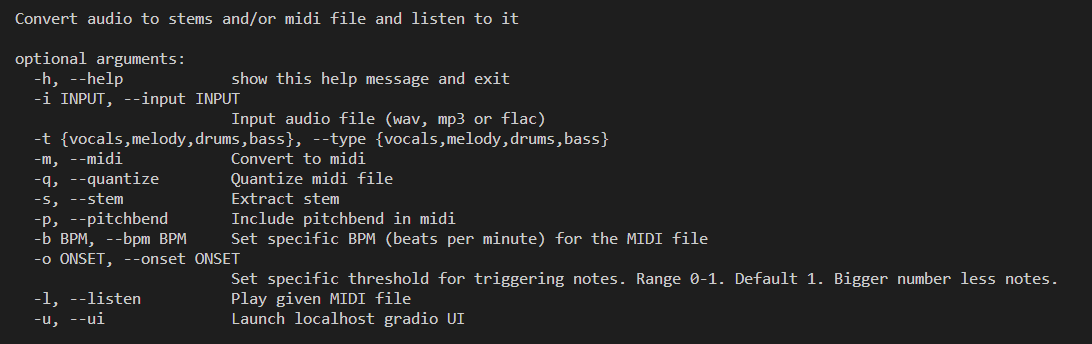
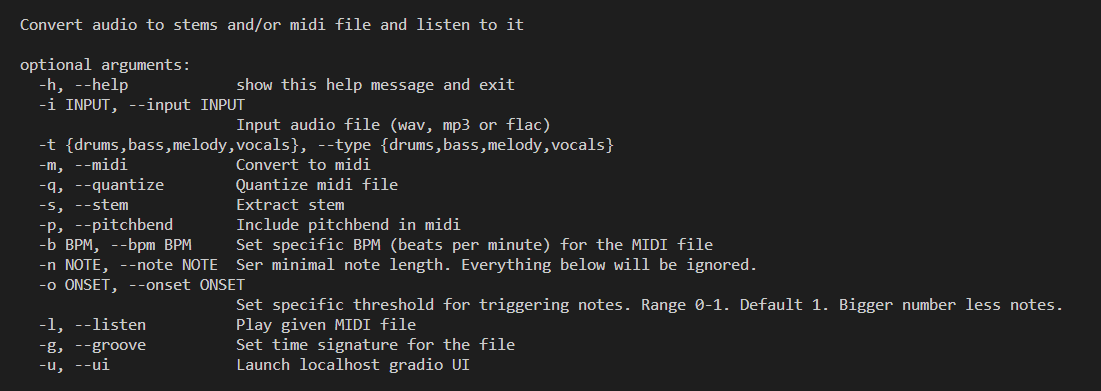
Version to 1.0
Added normalization of audio files
Added trimming of silence on beginning and tail
Exposed parameters to Web UI
Edited README

Changed region(s): [[0.0, 0.1453, 0.9652, 0.9593], [0.0, 0.0291, 0.4982, 0.0872], [0.0311, 0.814, 0.1557, 0.9593]]

diff --git a/MIDIfren.py b/MIDIfren.py
@@ -1,4 +1,6 @@
-
+# make by: https://github.com/Omodaka9375 2025
+# repo: https://github.com/Omodaka9375/MIDIfren
+# version 1.0
 import argparse
 import sys
 import os
@@ -27,12 +29,13 @@ OUTPUT_DIR.mkdir(parents=True, exist_ok=True)
 def main():
     parser = argparse.ArgumentParser(add_help=True, description="Convert audio to stems and/or midi file and listen to it", prog="MIDIfren",  epilog="Thank you for using MIDIfren <3 Omodaka9375 2025")
     parser.add_argument("-i","--input", help="Input audio file (wav, mp3 or flac)", type=str)
-    parser.add_argument("-t", "--type", choices=["vocals", "melody", "drums", "bass"])
+    parser.add_argument("-t", "--type", choices=['drums', 'bass', 'melody', 'vocals'])
     parser.add_argument("-m", "--midi", help="Convert to midi", action="store_true")
     parser.add_argument("-q", "--quantize", help="Quantize midi file", action="store_true")
     parser.add_argument("-s", "--stem", help="Extract stem", action="store_true")
     parser.add_argument("-p", "--pitchbend", help="Include pitchbend in midi", action="store_true")
     parser.add_argument("-b", "--bpm", type=float, help="Set specific BPM (beats per minute) for the MIDI file")
+    parser.add_argument("-n", "--note", type=float, help="Ser minimal note length. Everything below will be ignored.")
     parser.add_argument("-o", "--onset", type=float, help="Set specific threshold for triggering notes. Range 0-1. Default 1. Bigger number less notes.")
     parser.add_argument("-l","--listen", help="Play given MIDI file", action="store_true")
     parser.add_argument("-g","--groove", help="Set time signature for the file", action="store_true")
@@ -41,7 +44,9 @@ def main():
     
     _bpm = 120
     _groove = "4/4"
+    _notelength = 127.70
     stem_type = None
+    _quantize = True
 
     out_folder_path = Path("output")
     out_folder_path.mkdir(parents=True, exist_ok=True)
@@ -58,6 +63,9 @@ def main():
         
         if args.groove:
             _groove = args.groove
+        
+        if args.note:
+            _notelength = args.note
 
         if args.type:
             stem_type = args.type
@@ -68,7 +76,7 @@ def main():
                 processor = DemucsProcessor()
                 sources, sample_rate = processor.separate_stems(args.input)
                 print(f"Stem type requested: {stem_type}")
-                stem_index = ["drums", "bass", "melody", "vocals"].index(stem_type)
+                stem_index = ['drums', 'bass', 'melody', 'vocals'].index(stem_type)
                 selected_stem = sources[0, stem_index]
                 # Save stem
                 stem_path = out_folder_path / f"{stem_type}.wav"
@@ -93,10 +101,12 @@ def main():
         else:
             # Load the saved audio file
             audio_data, sr = librosa.load(args.input, sr=None, mono=True)
-            if len(audio_data.shape) > 1:
-                audio_data = audio_data.mean(axis=1)  # Convert to mono if stereo
+            yt, index = librosa.effects.trim(audio_data)
+            y_normalized = librosa.util.normalize(yt)
+            if len(y_normalized.shape) > 1:
+                y_normalized = y_normalized.mean(axis=1)  # Convert to mono if stereo
             # Convert to int16 format
-            audio_data = (audio_data * 32767).astype(np.int16)
+            y_normalized = (y_normalized * 32767).astype(np.int16)
             stem_path = args.input
         
         if args.midi:
@@ -108,12 +118,10 @@ def main():
                     if args.onset:
                         _onset = float(args.onset)
                     drumExtractor = DrumBeatExtractor()
-                    drumExtractor.extract_midi(stem_path, _bpm, _onset, _groove, False) # sensitivity
-                    print(f"Saved MIDI to: {midi_path}")
                     if args.quantize:
-                        # quantize to 16th notes (assuming 480 ticks per beat and 4 beats per measure)
-                        # 16th note resolution = (480 ticks/beat) / 4 = 120 ticks
-                        quantize_midi_file(midi_path, midi_path, 120)
+                        _quantize = args.quantize
+                    drumExtractor.extract_midi(stem_path, _bpm, _onset, _groove,_quantize, False) # sensitivity
+                    print(f"Saved MIDI to: {midi_path}")
                     if args.listen:
                         midiplayer = MidiDrumPlayer(midi_path, _bpm)
                         time.sleep(1)
@@ -129,12 +137,10 @@ def main():
                     if args.onset:
                         _onset = float(args.onset)
                     converter = BasicPitchConverter()
-                    converter.convert_to_midi(str(stem_path), str(midi_path), _bpm, _sonify, _pitchbend, _onset)
+                    converter.convert_to_midi(str(stem_path), str(midi_path), _bpm, _sonify, _pitchbend, _onset, _notelength)
                     print(f"Saved MIDI to: {midi_path}")
 
-
-
-def process_single_audio(audio_path: str, stem_type: str, convert_midi: bool, separate_stems: bool, bpm: int, sensitivity: float) -> Tuple[Tuple[int, np.ndarray], Optional[str]]:
+def process_single_audio(audio_path: str, stem_type: str, convert_midi: bool, separate_stems: bool, bpm: int, sensitivity: float, pitchbend: bool, notelength: float = 127.70, groove: str = "4/4", quantize: bool = True) -> Tuple[Tuple[int, np.ndarray], Optional[str]]:
     _bpm = bpm
     stem_path = None
     try:
@@ -157,7 +163,7 @@ def process_single_audio(audio_path: str, stem_type: str, convert_midi: bool, se
             print(f"Number of sources returned: {sources.shape}")
             print(f"Stem type requested: {stem_type}")
             # Get the requested stem
-            stem_index = ["bass", "melody", "vocals"].index(stem_type)
+            stem_index = ['drums', 'bass', 'melody', 'vocals'].index(stem_type)
             selected_stem = sources[0, stem_index]
             # Save stem
             stem_path = process_dir / f"{stem_type}.wav"
@@ -169,30 +175,32 @@ def process_single_audio(audio_path: str, stem_type: str, convert_midi: bool, se
                 audio_data = audio_data.mean(axis=1)  # Convert to mono if stereo
             # Convert to int16 format
             audio_data = (audio_data * 32767).astype(np.int16)
+            new_audio = audio_data
         else:
             # Load the saved audio file for Gradio
             audio_data, sr = librosa.load(audio_path, sr=None, mono=True)
-            if len(audio_data.shape) > 1:
-                audio_data = audio_data.mean(axis=1)  # Convert to mono if stereo
+            yt, index = librosa.effects.trim(audio_data)
+            y_normalized = librosa.util.normalize(yt)
+            if len(y_normalized.shape) > 1:
+                y_normalized = y_normalized.mean(axis=1)  # Convert to mono if stereo
             # Convert to int16 format
-            audio_data = (audio_data * 32767).astype(np.int16)
+            y_normalized = (y_normalized * 32767).astype(np.int16)
             stem_path = audio_path
+            new_audio = y_normalized
 
         # Convert to MIDI if requested
-        midi_path = None
+        midi_path = process_dir / f"{stem_type}.mid"
         
         if convert_midi:
             if stem_type == "drums":
-                midi_path = process_dir / f"{stem_type}.mid"
-                drumExtractor.extract_midi(stem_path, _bpm, sensitivity, "4/4", True)
+                drumExtractor.extract_midi(stem_path, _bpm, sensitivity, groove, quantize, True)
                 print(f"Saved MIDI to: {midi_path}")
             else:
                 converter = BasicPitchConverter()
-                midi_path = process_dir / f"{stem_type}.mid"
-                converter.convert_to_midi(str(stem_path), str(midi_path), _bpm)
+                converter.convert_to_midi(str(stem_path), str(midi_path), _bpm, False, pitchbend, sensitivity, notelength)
                 print(f"Saved MIDI to: {midi_path}")
                 
-        return (sr, audio_data), str(midi_path) if midi_path else None
+        return (sr, new_audio), str(midi_path) if midi_path else None
     except Exception as e:
         print(f"Error in process_single_audio: {str(e)}")
         raise
@@ -205,7 +213,11 @@ def create_interface():
         convert_midi: bool = True,
         separate_stems: bool = True,
         bpm: int = -1,
-        sensitivity: float = 0.3
+        sensitivity: float = 0.3,
+        pitchbend: bool = True,
+        notelength: float = 127.70,
+        groove: str = "4/4",
+        quantize: bool = True
     ) -> Tuple[Tuple[int, np.ndarray], Optional[str]]:
         try:
             print(f"Starting processing of {len(audio_files)} files")
@@ -214,7 +226,7 @@ def create_interface():
             if len(audio_files) > 0:
                 audio_path = audio_files[0]  # Take first file
                 print(f"Processing file: {audio_path}")
-                return process_single_audio(audio_path, stem_type, convert_midi, separate_stems, bpm, sensitivity)
+                return process_single_audio(audio_path, stem_type, convert_midi, separate_stems, bpm, sensitivity, pitchbend, notelength, groove, quantize)
             else:
                 raise ValueError("No audio files provided")
         except Exception as e:
@@ -227,24 +239,29 @@ def create_interface():
             gr.File(
                 file_count="multiple",
                 file_types=AudioValidator.SUPPORTED_FORMATS,
-                label="Upload Audio Files"
+                label="Upload Audio File"
             ),
             gr.Dropdown(
-                choices=["vocals", "drums", "bass", "melody"],
+                choices=['drums', 'bass', 'melody', 'vocals'],
                 label="Select Stem to Extract",
                 value="vocals"
             ),
             gr.Checkbox(label="Convert to MIDI", value=True),
             gr.Checkbox(label="Separate Stems", value=True),
-            gr.Number(label="BPM (-1 autodetect)", value=-1),
-            gr.Number(label="Sensitivity (1.0 - 0.0)", value=0.3)
+            gr.Number(label="BPM (-1 autodetect):", value=-1),
+            gr.Number(label="Sensitivity Threshold (0.0 - 1.0):", value=0.3),
+            gr.Checkbox(label="Include MIDI pitchband:", value=True),
+            gr.Number(label="Minimal note length in miliseconds:", value=127.70),
+            gr.Text(label="Timesignature (groove)", value="4/4"),
+            gr.Checkbox(label="Quantize MIDI", value=True),
+            
         ],
         outputs=[
-            gr.Audio(label="Separated Stems", type="numpy"),
-            gr.File(label="MIDI Files")
+            gr.Audio(label="Separated Stem", type="numpy"),
+            gr.File(label="MIDI File")
         ],
-        title="MIDIfren - 🎵 Audio Stem & MIDI Processor 🧠",
-        description="Upload audio files to extract stems and convert to MIDI\n\n",
+        title="MIDIfren 🎵 Audio Stem & MIDI Processor 🧠",
+        description="\n\n",
         cache_examples=True,
         allow_flagging="never"
     )
@@ -292,26 +309,30 @@ class DrumBeatExtractor:
     def detect_tempo(self, audio_file):
         try:
             y, sr = librosa.load(audio_file, sr=None, mono=True)
-            tempo, _ = librosa.beat.beat_track(y=y, sr=sr, units="time")
+            yt, index = librosa.effects.trim(y)
+            tempo, _ = librosa.beat.beat_track(y=yt, sr=sr, units="time")
             print(f"Detected tempo: {int(tempo)} BPM")
             return int(tempo)
         except Exception as e:
             print("Error detecting tempo. Setting tempo to default 120.")
             return 120
 
-    def extract_midi(self, audio_file, tempo, sensitivity, groove, ui):
+    def extract_midi(self, audio_file, tempo, sensitivity, groove, quantize, ui):
         times =  groove.split('/')
-        nom = times[0]
-        denom = times[1]
+        nom = int(times[0])
+        denom = int(times[1])
         try:
             process_dir = OUTPUT_DIR / str(hash(audio_file))
             process_dir.mkdir(parents=True, exist_ok=True)
             # Load as mono for HPSS and feature extraction
             out_folder_path = Path("output")
+            
             self.y, self.sr = librosa.load(audio_file, sr=None, mono=True)
+            yt, index = librosa.effects.trim(self.y)
+            y_normalized = librosa.util.normalize(yt)
             # --- Perform HPSS --- # 
-            y_percussive = librosa.effects.percussive(self.y)
-            # We could also get y_harmonic = librosa.effects.harmonic(self.y) if needed later
+            y_percussive = librosa.effects.percussive(y_normalized)
+            # We could also get y_harmonic = librosa.effects.harmonic(y_normalized) if needed later
             # Detect onsets (using the percussive component)
             onset_env = librosa.onset.onset_strength(
                 y=y_percussive, # Use percussive component here
@@ -357,12 +378,12 @@ class DrumBeatExtractor:
                 start_sample = frame * 512
                 # Use a slightly longer segment for better feature extraction
                 segment_duration = 0.1 # 100ms segment
-                end_sample = min(len(self.y), start_sample + int(segment_duration * self.sr))
+                end_sample = min(len(y_normalized), start_sample + int(segment_duration * self.sr))
 
                 if start_sample >= end_sample:
                     continue
 
-                segment = self.y[start_sample:end_sample]
+                segment = y_normalized[start_sample:end_sample]
                 if len(segment) == 0:
                     continue
 
@@ -447,15 +468,17 @@ class DrumBeatExtractor:
                     # Note off (very short duration)
                     track.append(mido.Message('note_off', note=note, velocity=0, time=10))
             # Save the MIDI file
-            
+           
             if ui:
                 midi_path = process_dir / "drums.mid"
                 mid.save(midi_path)
-                quantize_midi_file(midi_path, midi_path, 120)
-                
+                if quantize:
+                    quantize_midi_file(midi_path, midi_path, 120)
             else:
                 midi_path = out_folder_path / "drums.mid"
                 mid.save(midi_path)
+                if quantize:
+                    quantize_midi_file(midi_path, midi_path, 120)
               
         except Exception as e:
             print(f"Error exporting MIDI: {str(e)}")
@@ -464,14 +487,13 @@ class BasicPitchConverter:
     def __init__(self):
         self.process_options = {
             'frame_threshold': 0.3,
-            'minimum_note_length': 127.70,  # in milliseconds
             'minimum_frequency': 32.7,  # C1
             'maximum_frequency': 2093,  # C7
             'melodia_trick': True
         }
         print("Basic Pitch converter initialized")  # Keep using print for consistency
 
-    def convert_to_midi(self, audio_path: str, output_path: str, bpm: int, sonify: bool = False, pitchbend: bool = False, onset: float = 1, progress: Optional[callable] = None) -> str:
+    def convert_to_midi(self, audio_path: str, output_path: str, bpm: int, sonify: bool = False, pitchbend: bool = False, onset: float = 1.0, notelength: float = 127.70, progress: Optional[callable] = None) -> str:
         try:
             print(f"Converting to MIDI: {audio_path}")  # Keep debugging output
             if progress:
@@ -481,7 +503,7 @@ class BasicPitchConverter:
                 audio_path=audio_path,
                 onset_threshold=onset,
                 frame_threshold=self.process_options['frame_threshold'],
-                minimum_note_length=self.process_options['minimum_note_length'],
+                minimum_note_length=notelength,
                 minimum_frequency=self.process_options['minimum_frequency'],
                 maximum_frequency=self.process_options['maximum_frequency'],
                 melodia_trick=self.process_options['melodia_trick'],

diff --git a/README.md b/README.md
@@ -45,11 +45,27 @@ python MIDIfren.py -i <input_audio> -t <sound_type> [options]
 ---
 
 
-### 📌 Example  
+### 📌 Examples  
 ```bash
 # extract vocal stem from the audio and convert it to midi (with pitchbend) and listen to it
-python MIDIfren.py -i input.wav -type vocals --pitchbend --listen --onset 1.0
+python MIDIfren.py -i input.wav -type vocals --stem --midi --pitchbend --listen
 ```  
+
+```bash
+# extract drums from audio and convert it to midi (with quantization) and listen to it
+python MIDIfren.py -i input.wav -type drums --stem --midi --quantize --listen
+```  
+
+```bash
+# extract bass stem from audio file and listen to it
+python MIDIfren.py -i input.wav -type bass --stem --listen
+```  
+
+```bash
+# convert audio file to midi directly and listen (no stem extraction)
+python MIDIfren.py -i input.wav -type drums --midi --listen
+``` 
+
 ---
 **Output**:  
 
@@ -58,5 +74,7 @@ Midi files, sonified midi and stems will be in the output folder.
 - `output/drums.mid` (MIDI)  
 - ...
 
+**Notes**:
+All audio is automatically normalized and trimmed for silence before processing.
 ---  
 **Made by Omodaka9375 with ❤ for audio enthusiasts & music devs!** 🎶
